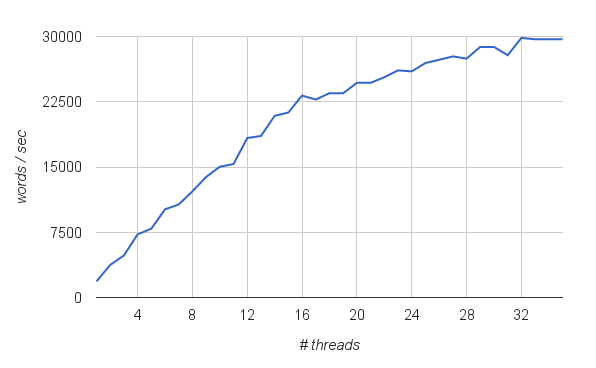
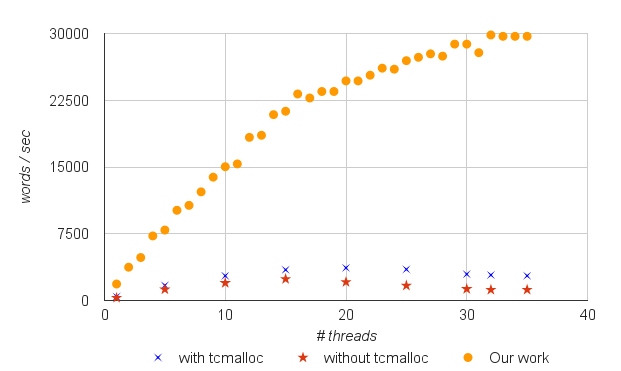
oov penalty

diff --git a/acl.2016/acl2016.tex b/acl.2016/acl2016.tex
@@ -491,27 +491,27 @@ Decoding time decreased by 29\% with running with a single thread but it is over
 \begin{tabular}{cc}
 {\includegraphics[scale=0.4]{scalability.png}} 
 \end{tabular}
-\caption{Our decoder's decoding speed}
+\caption{Comparison of decoding speed of our work and Moses (with \& without the tcmalloc library}
 \label{fig:speed}
 \end{figure} 
 
-Showing decoding \emph{speed} rather than decoding time better illustrate the scalability of our approach. Figure~\ref{fig:speed} shows decoding speed against the number of threads, measured in words translated per second. There is a constant increase in decoding speed when more threads are used, decreasing slightly after 16 threads when virtual cores are employed by the CPU. Overall, decoding is 12.5 times faster than single-threaded decoding when all 16 cores (32 hyperthreads) are fully utilized.
+Figure~\ref{fig:speed} shows decoding speed against the number of threads used. In our work, there is a constant increase in decoding speed when more threads are used, decreasing slightly after 16 threads when virtual cores are employed by the CPU. Overall, decoding is 16 times faster than single-threaded decoding when all 16 cores (32 hyperthreads) are fully utilized.
 
 %Since the test server only has 16 real cores, additional threads must be run on the same physical cores as existing threads. This further constrains the resources that each thread has, therefore we see a markedly lower speed increase with each additional thread once there are more than 16 concurrent threads.
 
-This contrast with Moses where speed increases to approximately 16 threads but then actually become slower thereafter, Figure~\ref{fig:moses-speed}. Using the tcmalloc library has a small positive effect on decoding speed but does little to improve scalability 
-\begin{figure}[h]
-\centering
-\begin{tabular}{cc}
-{\includegraphics[scale=0.5]{moses-scalability.png}} 
-\end{tabular}
-\caption{Moses' decoding speed}
-\label{fig:moses-speed}
-\end{figure} 
+This contrast with Moses where speed increases to approximately 16 threads but then actually become slower thereafter. Using the tcmalloc library has a small positive effect on decoding speed but does little to improve scalability 
+%\begin{figure}[h]
+%\centering
+%\begin{tabular}{cc}
+%{\includegraphics[scale=0.5]{moses-scalability.png}} 
+%\end{tabular}
+%\caption{Moses' decoding speed}
+%\label{fig:moses-speed}
+%\end{figure} 
 
 %Overall though, the scalability is remarkably good, the decoder is able to make full use of all real and virtual cores. When all 16 cores are saturated with 2 hyper-thread each, the decoder is 16 times faster than single-threaded decoding. 
 
-Our work is 4.5 times faster than Moses with a single-thread and 9.6 faster when all cores are used.
+Our work is 4.3 times faster than Moses with a single-thread and 10.4 faster when all cores are used.
 
 %We mimic the use of multi-core servers by single-threaded decoders such as mtplz~\cite{Heafield-mtplz} and Jane~\cite{peitz2012jane} by running multiple processes of the Moses decoder, each running one thread. The input is distributed to the processes using a external script. The result in Figure~\ref{fig:moses-speed} (dashed line) shows that this method scales much better than multithreading the application.
  
